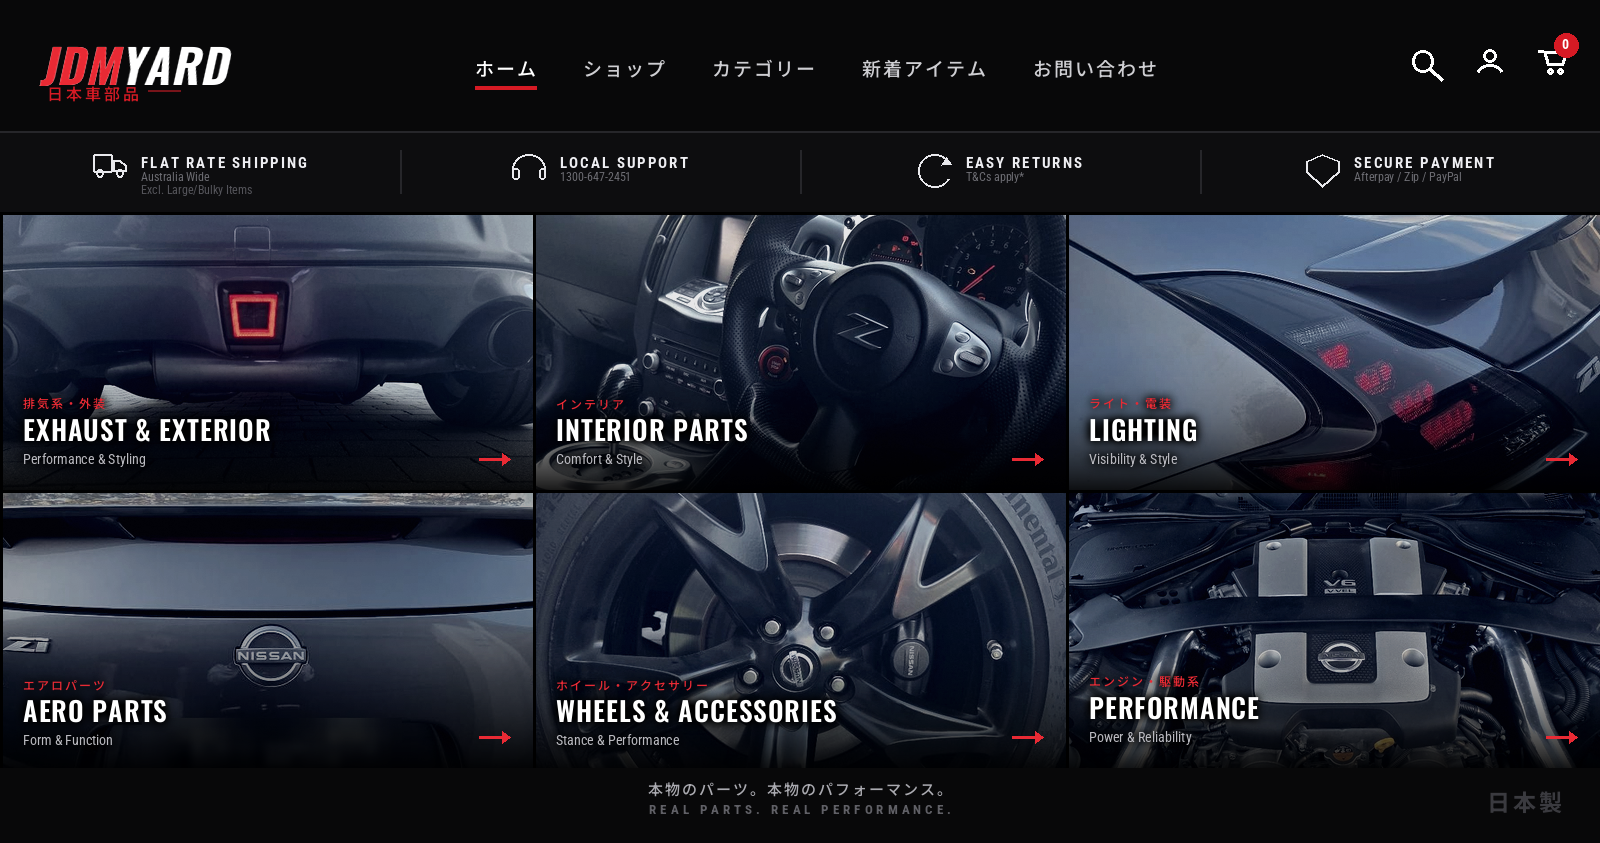
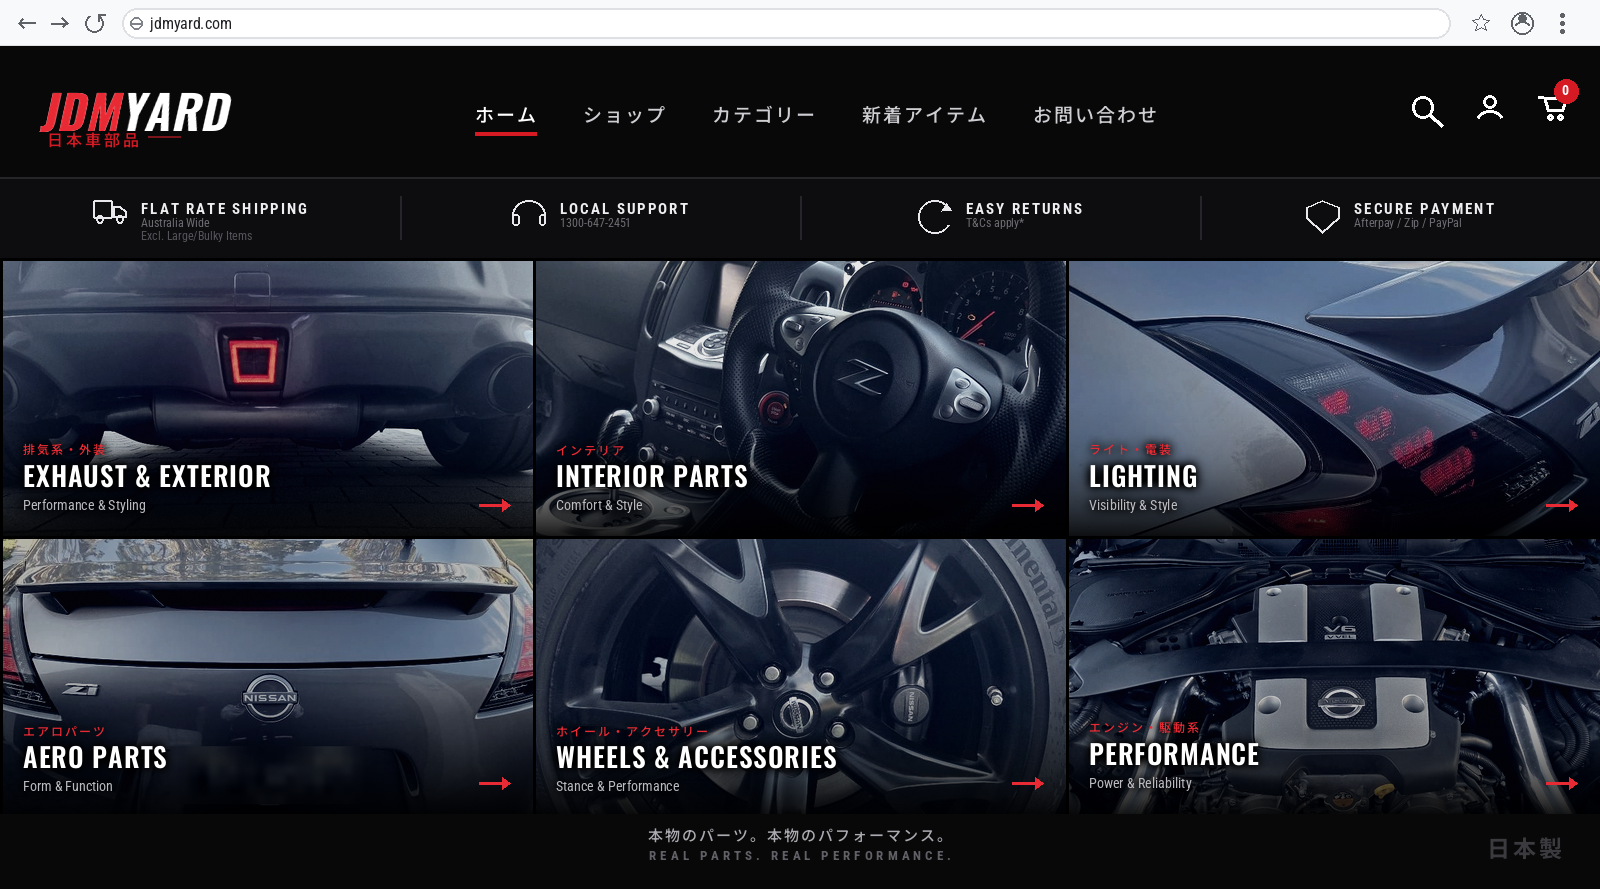
Add browser toolbar and widen the AERO crop
- Draw a Chrome-style toolbar above the page (back/forward/reload, address
  pill reading jdmyard.com, star/profile/kebab). Vector-drawn rather than
  screenshotted so it stays sharp at any export size; toggle via
  SHOW_CHROME, address via URL_TEXT.
- Zoom out the AERO PARTS tile (2.jpg) from 1.34 to 1.04 so the full
  spoiler, bootlid and both taillights are in frame instead of a tight
  crop on the badge. Exposure retrimmed 0.74 -> 0.78 to match.
- Outputs now 1600x889 and 3200x1779.

diff --git a/jdmyard/build.py b/jdmyard/build.py
@@ -24,6 +24,7 @@ OUT.mkdir(exist_ok=True)
 # ---------------------------------------------------------------- canvas spec
 W = int(os.environ.get("JDM_W", 1600))     # output width; JDM_W=3200 for 2x
 SCALE = W / 1024.0            # reference mock was 1024 wide
+CHROME_H = int(30 * SCALE)    # browser toolbar strip
 HEADER_H = int(84 * SCALE)
 TRUST_H = int(52 * SCALE)
 TILE_W = W // 3
@@ -45,6 +46,10 @@ HAIRLINE = (38, 38, 42)
 # Number plate in 2.jpg is legible. Set False to leave it untouched.
 BLUR_PLATE = True
 PLATE_2 = [(0.325, 0.572, 0.690, 0.650)]     # normalised box around "1FCM597"
+
+# Fake browser toolbar across the top, so the render reads as a live site.
+SHOW_CHROME = True
+URL_TEXT = "jdmyard.com"
 
 # ---------------------------------------------------------------- fonts
 JP_PATH = FONTS / "NotoSansJP[wght].ttf"
@@ -306,6 +311,96 @@ def icon_cart(d, x, y, sz, col):
                   outline=col, width=lw)
 
 
+# ---------------------------------------------------------------- browser bar
+CH_BG = (248, 249, 250)
+CH_LINE = (222, 224, 228)
+CH_ICON = (95, 99, 104)
+CH_TEXT = (32, 33, 36)
+
+
+def _arrow(d, cx, cy, size, lw, direction=1):
+    """Simple chevron-and-shaft arrow. direction 1 = right, -1 = left."""
+    half = size / 2
+    tipx = cx + half * direction
+    tailx = cx - half * direction
+    d.line([(tailx, cy), (tipx, cy)], fill=CH_ICON, width=lw)
+    d.line([(tipx, cy), (tipx - half * 0.55 * direction, cy - half * 0.55)],
+           fill=CH_ICON, width=lw)
+    d.line([(tipx, cy), (tipx - half * 0.55 * direction, cy + half * 0.55)],
+           fill=CH_ICON, width=lw)
+
+
+def draw_chrome(page):
+    """Stack a Chrome-style toolbar above the rendered page."""
+    ch = CHROME_H
+    out = Image.new("RGB", (W, ch + page.height), CH_BG)
+    out.paste(page, (0, ch))
+    d = ImageDraw.Draw(out)
+
+    d.rectangle([0, 0, W, ch - 1], fill=CH_BG)
+    d.line([(0, ch - 1), (W, ch - 1)], fill=CH_LINE, width=1)
+
+    cy = ch / 2
+    lw = max(1, s(1.4))
+
+    # back / forward
+    _arrow(d, s(17), cy, s(10), lw, direction=-1)
+    _arrow(d, s(38), cy, s(10), lw, direction=1)
+
+    # reload: open circle with a small head at the top
+    r = s(6)
+    rx = s(60)
+    d.arc([rx - r, cy - r, rx + r, cy + r], 300, 240, fill=CH_ICON, width=lw)
+    d.line([(rx + r * 0.5, cy - r), (rx + r * 0.5, cy - r * 0.15)],
+           fill=CH_ICON, width=lw)
+    d.line([(rx + r * 0.5, cy - r), (rx + r * 1.25, cy - r)],
+           fill=CH_ICON, width=lw)
+
+    # address pill
+    px0, px1 = s(78), W - s(96)
+    ph = s(19)
+    d.rounded_rectangle([px0, cy - ph / 2, px1, cy + ph / 2], radius=ph / 2,
+                        fill=(255, 255, 255), outline=CH_LINE, width=max(1, s(1)))
+
+    # tiny "tune"/site icon inside the pill
+    ix = px0 + s(9)
+    ir = s(4)
+    d.ellipse([ix - ir, cy - ir, ix + ir, cy + ir], outline=(128, 132, 138),
+              width=max(1, s(1)))
+    d.line([(ix - ir, cy), (ix + ir, cy)], fill=(128, 132, 138),
+           width=max(1, s(1)))
+
+    f_url = rob(s(10.5), "Regular")
+    d.text((ix + s(9), cy - s(6)), URL_TEXT, font=f_url, fill=CH_TEXT)
+
+    # right-hand icons: star, profile, kebab
+    sx = W - s(76)
+    star_r = s(6)
+    pts = []
+    import math
+    for k in range(10):
+        ang = -math.pi / 2 + k * math.pi / 5
+        rad = star_r if k % 2 == 0 else star_r * 0.45
+        pts.append((sx + rad * math.cos(ang), cy + rad * math.sin(ang)))
+    d.polygon(pts, outline=CH_ICON)
+
+    ux = W - s(50)
+    ur = s(7)
+    d.ellipse([ux - ur, cy - ur, ux + ur, cy + ur], outline=CH_ICON,
+              width=max(1, s(1)))
+    hr = s(2.4)
+    d.ellipse([ux - hr, cy - s(3) - hr, ux + hr, cy - s(3) + hr], fill=CH_ICON)
+    d.arc([ux - s(5), cy - s(1), ux + s(5), cy + s(8)], 200, 340,
+          fill=CH_ICON, width=max(1, s(1)))
+
+    kx = W - s(24)
+    dr = max(1, s(1.5))
+    for dy in (-s(5), 0, s(5)):
+        d.ellipse([kx - dr, cy + dy - dr, kx + dr, cy + dy + dr], fill=CH_ICON)
+
+    return out
+
+
 # ---------------------------------------------------------------- build
 def build():
     canvas = Image.new("RGB", (W, H), BLACK)
@@ -417,7 +512,7 @@ def build():
         ("ライト・電装", "LIGHTING", "Visibility & Style",
          "1.jpg", 0.56, 1.18, 0.96, None),
         ("エアロパーツ", "AERO PARTS", "Form & Function",
-         "2.jpg", 0.47, 1.34, 0.74, PLATE_2),
+         "2.jpg", 0.46, 1.04, 0.78, PLATE_2),
         ("ホイール・アクセサリー", "WHEELS & ACCESSORIES", "Stance & Performance",
          "3.JPG", 0.46, 1.02, 0.94, None),
         ("エンジン・駆動系", "PERFORMANCE", "Power & Reliability",
@@ -523,10 +618,14 @@ def build():
     stw = track_w(d, st, f_stamp, s(2))
     track(d, (W - s(24) - stw, fy0 + s(10)), st, f_stamp, (58, 58, 63), spacing=s(2))
 
+    if SHOW_CHROME:
+        canvas = draw_chrome(canvas)
+
     suffix = "" if W == 1600 else f"@{W}"
     out = OUT / f"jdmyard{suffix}.png"
     canvas.save(out, "PNG")
-    print(f"wrote {out}  ({W}x{H})  photos found: {found_count}/6")
+    print(f"wrote {out}  ({canvas.width}x{canvas.height})  "
+          f"photos found: {found_count}/6  chrome: {SHOW_CHROME}")
     return out
 
 

diff --git a/jdmyard/README.md b/jdmyard/README.md
@@ -5,8 +5,8 @@ in the repo root.
 
 | File | Size | Use |
 |---|---|---|
-| `jdmyard-hero.png` | 1600 × 843 | web |
-| `jdmyard-hero@2x.png` | 3200 × 1686 | retina / print |
+| `jdmyard-hero.png` | 1600 × 889 | web |
+| `jdmyard-hero@2x.png` | 3200 × 1779 | retina / print |
 
 ## Tile mapping
 
@@ -57,8 +57,13 @@ black-point crush, vignette, grain.
 `BLUR_PLATE = True` pixelates the number plate in `2.jpg`. Set it to `False`
 to leave the plate legible.
 
+`SHOW_CHROME = True` stacks a Chrome-style toolbar above the page, so the
+render reads as a live site. `URL_TEXT` sets the address shown. Set
+`SHOW_CHROME = False` for a clean hero with no browser frame.
+
 ## Notes
 
 - Copy corrected from the original mockup: `LOAYS RETURN` → `EASY RETURNS`,
   `SECUBE PAYMENT` → `SECURE PAYMENT`, `Afterpey / Zio` → `Afterpay / Zip`.
-- Browser chrome from the mockup screenshot is intentionally not reproduced.
+- The browser toolbar is drawn, not screenshotted — so the address reads
+  cleanly at any export size. Toggle it with `SHOW_CHROME`.
